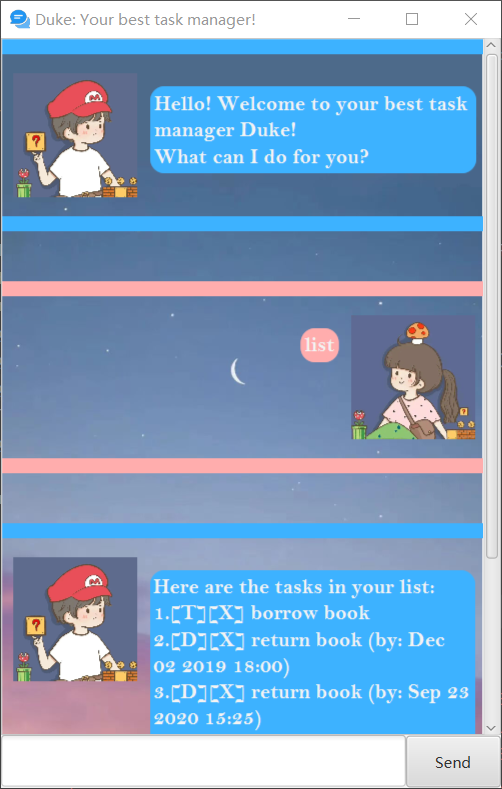
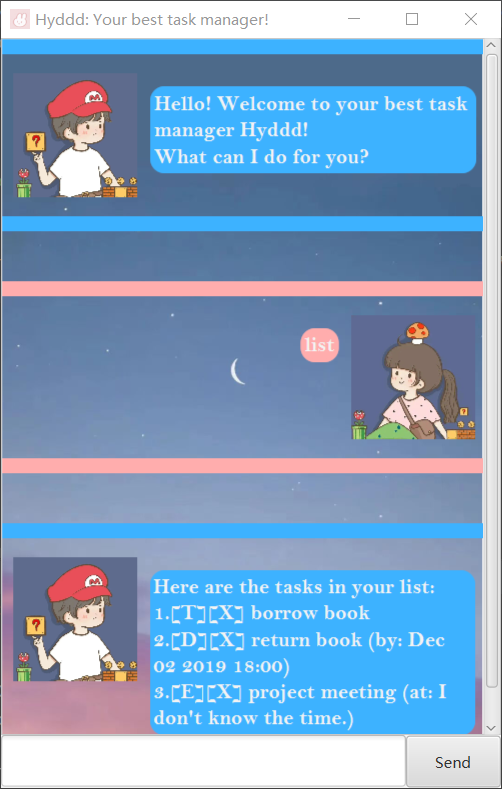
Change name and Ui image

diff --git a/src/main/java/hyddd/uimanager/MainWindow.java b/src/main/java/hyddd/uimanager/MainWindow.java
@@ -36,7 +36,7 @@ public class MainWindow extends AnchorPane {
     private Hyddd hyddd;
     private BackgroundImage backgroundImage;
     private final Image userImage = new Image(this.getClass().getResourceAsStream("/images/User.jpg"));
-    private final Image hydddImage = new Image(this.getClass().getResourceAsStream("/images/hyddd.jpg"));
+    private final Image hydddImage = new Image(this.getClass().getResourceAsStream("/images/Hyddd.jpg"));
 
 
     //@@author Hang Zelin-reused
